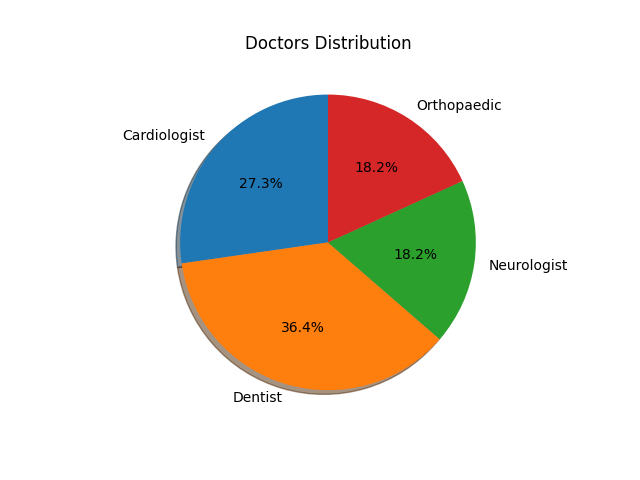
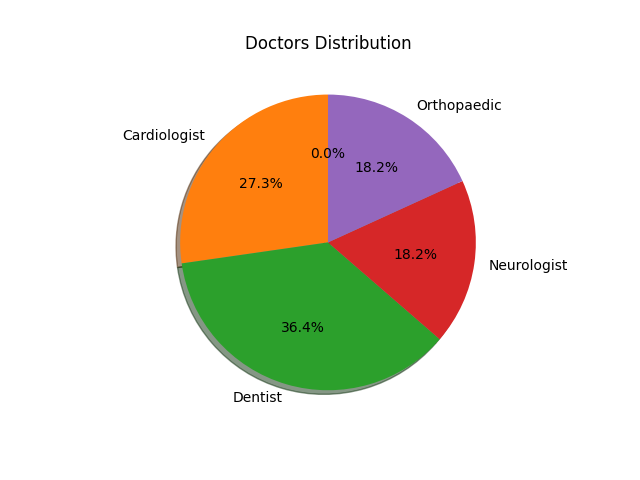
Final code

Changed region(s): [[0.25, 0.1875, 0.75, 0.8438]]

diff --git a/docbook/core/views.py b/docbook/core/views.py
@@ -33,9 +33,8 @@ def doctorSpecializationLocation():
 
     labels = np.array(spec_count)
     sizes = np.array(doc_list)
-    explode = (0, 0, 0, 0) 
     plt1.clf()
-    plt1.pie(sizes, explode=explode, labels=labels,shadow=True, startangle=90, autopct='%1.1f%%')
+    plt1.pie(sizes, labels=labels,shadow=True, startangle=90, autopct='%1.1f%%')
     plt1.title("Doctors Distribution")
     docfilename = 'media/doctors/specialization_graph/' + 'doctorspecialization' + '.png'
     plt1.savefig(docfilename)
